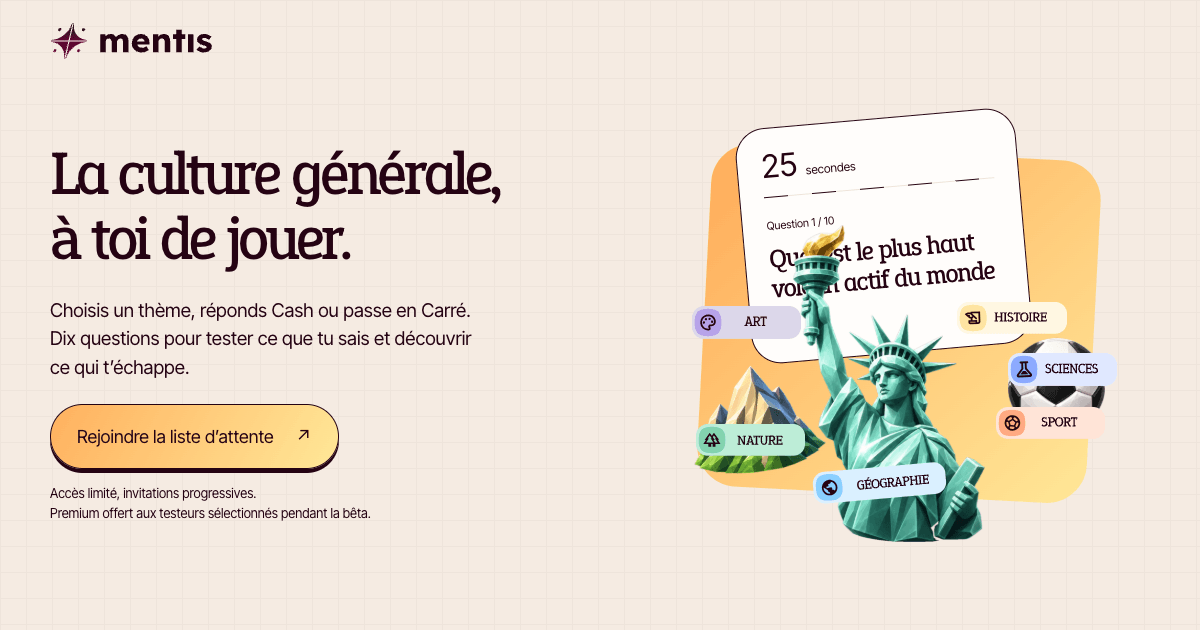
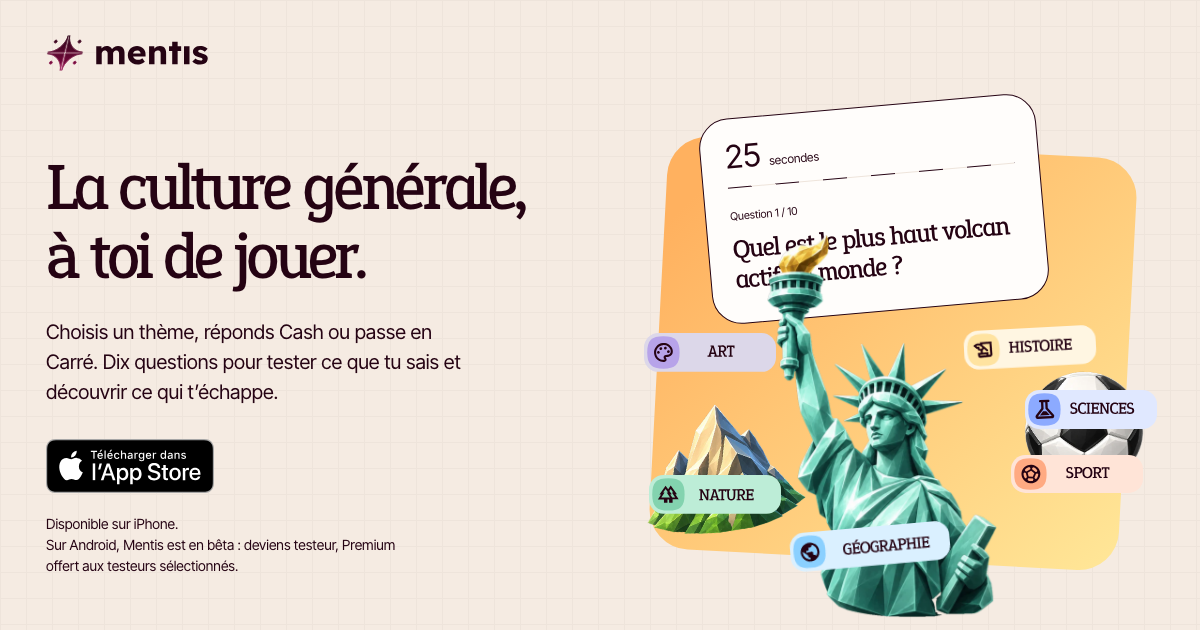
feat(web): the landing announces Mentis on the App Store, a QR code on desktop sends each device to its store through /mentis/app, and the waitlist becomes the Android beta

Changed region(s): [[0.5242, 0.1508, 0.9867, 0.9952], [0.0308, 0.2413, 0.4317, 0.9048], [0.0308, 0.0302, 0.185, 0.1206]]

diff --git a/apps/web/src/app/mentis/page.tsx b/apps/web/src/app/mentis/page.tsx
@@ -2,10 +2,12 @@ import type { Metadata } from "next";
 import localFont from "next/font/local";
 import Image from "next/image";
 
+import { AppStoreBadge } from "@/features/mentis/app-store-badge";
 import { LogoWordmark } from "@/features/mentis/logo-wordmark";
 import styles from "@/features/mentis/mentis.module.css";
 import { CompetitionArt, ProductArt } from "@/features/mentis/product-art";
 import { QuizDemo } from "@/features/mentis/quiz-demo";
+import { ANDROID_BETA_ANCHOR, APP_STORE_ID } from "@/features/mentis/store-links";
 import { WAITLIST_CTA } from "@/features/mentis/waitlist-config";
 import { WaitlistForm } from "@/features/mentis/waitlist-form";
 import { PUBLISHER } from "@/lib/publisher";
@@ -26,13 +28,14 @@ const inter = localFont({
 
 const TITLE = "Mentis — La culture générale, à toi de jouer";
 const DESCRIPTION =
-  "Des thèmes à explorer, 25 secondes pour répondre Cash ou Carré. Découvre Mentis et candidate à la bêta iOS et Android. Premium offert aux testeurs sélectionnés pendant la bêta.";
+  "Des thèmes à explorer, 25 secondes pour répondre Cash ou Carré. Mentis est disponible sur l’App Store. Sur Android, rejoins la bêta : Premium offert aux testeurs sélectionnés.";
 const URL = "https://frogster-studio.com/mentis";
 
 export const metadata: Metadata = {
   title: TITLE,
   description: DESCRIPTION,
   alternates: { canonical: URL },
+  itunes: { appId: APP_STORE_ID },
   icons: {
     icon: [
       { url: "/mentis/favicon.ico", sizes: "16x16 32x32 48x48", type: "image/x-icon" },
@@ -52,7 +55,7 @@ export const metadata: Metadata = {
         url: `${URL}/social-preview.png`,
         width: 1200,
         height: 630,
-        alt: "Mentis — La culture générale, à toi de jouer. Bêta iOS et Android.",
+        alt: "Mentis — La culture générale, à toi de jouer. Disponible sur l’App Store.",
       },
     ],
   },
@@ -87,8 +90,11 @@ export default function MentisPage() {
             <a href="#essayer" className={styles.navLink}>
               À toi de jouer
             </a>
-            <a href="#beta" className={styles.navCta}>
-              {WAITLIST_CTA}
+            <a href={`#${ANDROID_BETA_ANCHOR}`} className={styles.navLink}>
+              Bêta Android
+            </a>
+            <a href="#telecharger" className={styles.navCta}>
+              Télécharger l’app
             </a>
           </nav>
         </header>
@@ -103,13 +109,17 @@ export default function MentisPage() {
                 Choisis un thème, réponds Cash ou passe en Carré. Dix questions pour tester ce que
                 tu sais et découvrir ce qui t’échappe.
               </p>
-              <a href="#beta" className={`${styles.button} ${styles.primary}`}>
-                {WAITLIST_CTA}
-                <span aria-hidden="true">↗</span>
-              </a>
+              <div className={styles.download} id="telecharger">
+                <AppStoreBadge className={styles.storeBadge} />
+                <div className={styles.qrCode}>
+                  <Image src="/mentis/app-qr.svg" alt="" width={84} height={84} unoptimized />
+                  <p>Scanne ce code avec ton iPhone pour installer Mentis.</p>
+                </div>
+              </div>
               <p className={styles.heroDetails}>
-                <span>Accès limité, invitations progressives.</span>Premium offert aux testeurs
-                sélectionnés pendant la bêta.
+                <span>Disponible sur iPhone.</span>Sur Android, Mentis est en bêta :{" "}
+                <a href={`#${ANDROID_BETA_ANCHOR}`}>deviens testeur</a>, Premium offert aux testeurs
+                sélectionnés.
               </p>
             </div>
             <ProductArt />
@@ -220,17 +230,17 @@ export default function MentisPage() {
               </p>
             </div>
           </section>
-          <section className={styles.beta} id="beta" aria-labelledby="beta-title">
+          <section className={styles.beta} id={ANDROID_BETA_ANCHOR} aria-labelledby="beta-title">
             <div className={styles.betaIntro}>
-              <span className={styles.kicker}>04 / Fais partie des premiers</span>
+              <span className={styles.kicker}>04 / Bêta Android</span>
               <h2 id="beta-title">
-                La suite s’écrit
+                Sur Android,
                 <br />
-                avec toi.
+                on a besoin de toi.
               </h2>
               <p>
-                Mentis est encore en développement et n’est pas disponible au public. Nous ouvrons
-                progressivement la bêta à des testeurs sur iOS et Android.
+                Mentis est disponible sur l’App Store. Sur Android, l’app est encore en bêta : nous
+                cherchons des testeurs pour la peaufiner avant sa sortie sur Google Play.
               </p>
               <div className={styles.premiumNote}>
                 <Image src="/mentis/crown.webp" alt="" width={76} height={70} unoptimized />
@@ -244,10 +254,7 @@ export default function MentisPage() {
                 <p>
                   <strong>La bonne adresse e-mail, c’est important.</strong>
                 </p>
-                <p>
-                  Sur Android, indique l’adresse du compte Google que tu utilises sur le Google Play
-                  Store. Sur iOS, indique l’adresse de ton compte Apple.
-                </p>
+                <p>Indique l’adresse du compte Google que tu utilises sur le Google Play Store.</p>
                 <p>
                   Une adresse différente peut empêcher l’accès à la bêta. Ne communique jamais ton
                   mot de passe.
@@ -284,10 +291,13 @@ export default function MentisPage() {
           </section>
           <div className={styles.finalLine}>
             <p>La curiosité n’attend que toi.</p>
-            <a className={`${styles.button} ${styles.primary}`} href="#beta">
-              {WAITLIST_CTA}
-              <span aria-hidden="true">↗</span>
-            </a>
+            <div className={styles.finalActions}>
+              <AppStoreBadge className={styles.storeBadge} />
+              <a className={`${styles.button} ${styles.primary}`} href={`#${ANDROID_BETA_ANCHOR}`}>
+                {WAITLIST_CTA}
+                <span aria-hidden="true">↗</span>
+              </a>
+            </div>
           </div>
         </main>
         <div className={styles.footerBrand}>

diff --git a/apps/web/src/features/mentis/store-links.test.ts b/apps/web/src/features/mentis/store-links.test.ts
@@ -1,0 +1,34 @@
+import { describe, expect, it } from "vitest";
+
+import { ANDROID_BETA_URL, APP_STORE_URL, storeDestination } from "./store-links";
+
+const IPHONE =
+  "Mozilla/5.0 (iPhone; CPU iPhone OS 18_0 like Mac OS X) AppleWebKit/605.1.15 (KHTML, like Gecko) Version/18.0 Mobile/15E148 Safari/604.1";
+const IPAD_LEGACY =
+  "Mozilla/5.0 (iPad; CPU OS 12_4 like Mac OS X) AppleWebKit/605.1.15 (KHTML, like Gecko) Version/12.1.2 Mobile/15E148 Safari/604.1";
+const MAC =
+  "Mozilla/5.0 (Macintosh; Intel Mac OS X 10_15_7) AppleWebKit/605.1.15 (KHTML, like Gecko) Version/18.0 Safari/605.1.15";
+const ANDROID =
+  "Mozilla/5.0 (Linux; Android 14; Pixel 8) AppleWebKit/537.36 (KHTML, like Gecko) Chrome/129.0 Mobile Safari/537.36";
+const WINDOWS =
+  "Mozilla/5.0 (Windows NT 10.0; Win64; x64) AppleWebKit/537.36 (KHTML, like Gecko) Chrome/129.0 Safari/537.36";
+
+describe("storeDestination", () => {
+  it("sends an iPhone to the App Store", () => {
+    expect(storeDestination(IPHONE, 5)).toBe(APP_STORE_URL);
+  });
+
+  it("sends an iPad to the App Store, even behind its Mac user agent", () => {
+    expect(storeDestination(IPAD_LEGACY, 5)).toBe(APP_STORE_URL);
+    expect(storeDestination(MAC, 5)).toBe(APP_STORE_URL);
+  });
+
+  it("sends an Android phone to the Android beta section", () => {
+    expect(storeDestination(ANDROID, 5)).toBe(ANDROID_BETA_URL);
+  });
+
+  it("sends a desktop to the landing page", () => {
+    expect(storeDestination(MAC, 0)).toBe("/mentis");
+    expect(storeDestination(WINDOWS, 0)).toBe("/mentis");
+  });
+});

diff --git a/apps/web/src/features/mentis/mentis.module.css b/apps/web/src/features/mentis/mentis.module.css
@@ -153,6 +153,48 @@
 .heroDetails span {
   display: block;
 }
+.heroDetails a {
+  text-decoration: underline;
+  text-underline-offset: 3px;
+}
+.download {
+  display: flex;
+  align-items: center;
+  gap: 28px;
+  scroll-margin-top: 30px;
+}
+.storeBadge {
+  display: inline-block;
+  transition: transform 150ms ease;
+}
+.storeBadge:hover {
+  transform: translateY(2px);
+}
+.storeBadge img {
+  display: block;
+  width: 168px;
+  height: auto;
+}
+.qrCode {
+  display: none;
+  align-items: center;
+  gap: 14px;
+  max-width: 230px;
+  font-size: 14px;
+  line-height: 1.35;
+}
+.qrCode img {
+  flex-shrink: 0;
+  padding: 6px;
+  background: white;
+  border: 1px solid var(--ink);
+  border-radius: 14px;
+}
+@media (hover: hover) and (pointer: fine) {
+  .qrCode {
+    display: flex;
+  }
+}
 .productArt {
   position: relative;
   width: 100%;
@@ -615,6 +657,13 @@
 .finalLine {
   text-align: center;
   padding-bottom: 72px;
+}
+.finalActions {
+  display: flex;
+  flex-wrap: wrap;
+  justify-content: center;
+  align-items: center;
+  gap: 20px;
 }
 .finalLine p {
   font-family: var(--font-mentis-heading), serif;

diff --git a/apps/web/src/app/mentis/app/page.tsx b/apps/web/src/app/mentis/app/page.tsx
@@ -1,0 +1,33 @@
+import type { Metadata } from "next";
+
+import { AppStoreBadge } from "@/features/mentis/app-store-badge";
+import { ANDROID_BETA_URL } from "@/features/mentis/store-links";
+import { StoreRedirect } from "@/features/mentis/store-redirect";
+import { ROUTES } from "@/lib/routes";
+
+export const metadata: Metadata = {
+  title: "Télécharger Mentis",
+  robots: { index: false },
+};
+
+export default function AppPage() {
+  return (
+    <main className="mx-auto flex max-w-3xl flex-col gap-6 px-6 py-24">
+      <StoreRedirect />
+      <h1 className="text-4xl">Télécharger Mentis</h1>
+      <p className="text-lg text-zinc-600">Redirection vers la bonne boutique…</p>
+      <AppStoreBadge className="self-start" />
+      <p className="text-sm text-zinc-600">
+        Sur Android ?{" "}
+        <a href={ANDROID_BETA_URL} className="text-sky-600 hover:underline">
+          Rejoins la bêta
+        </a>
+        . Sinon,{" "}
+        <a href={ROUTES.mentis} className="text-sky-600 hover:underline">
+          découvre Mentis
+        </a>
+        .
+      </p>
+    </main>
+  );
+}

diff --git a/apps/web/src/features/mentis/store-links.ts b/apps/web/src/features/mentis/store-links.ts
@@ -1,0 +1,14 @@
+import { ROUTES } from "@/lib/routes";
+
+export const APP_STORE_ID = "6804975526";
+export const APP_STORE_URL = `https://apps.apple.com/app/id${APP_STORE_ID}`;
+export const ANDROID_BETA_ANCHOR = "android";
+export const ANDROID_BETA_URL = `${ROUTES.mentis}#${ANDROID_BETA_ANCHOR}`;
+
+// iPadOS Safari reports a Mac user agent, so only its touch points give it away.
+export function storeDestination(userAgent: string, maxTouchPoints: number): string {
+  const isIPad = /iPad/.test(userAgent) || (/Macintosh/.test(userAgent) && maxTouchPoints > 1);
+  if (/iPhone|iPod/.test(userAgent) || isIPad) return APP_STORE_URL;
+  if (/Android/.test(userAgent)) return ANDROID_BETA_URL;
+  return ROUTES.mentis;
+}

diff --git a/apps/web/src/lib/routes.test.ts b/apps/web/src/lib/routes.test.ts
@@ -7,6 +7,7 @@ describe("routes", () => {
     expect(PAGE_PATHS).toEqual([
       "/",
       "/mentis",
+      "/mentis/app",
       "/legal",
       "/mentis/privacy",
       "/mentis/terms",
@@ -16,6 +17,7 @@ describe("routes", () => {
   });
 
   it("keeps the Mentis pages under /mentis", () => {
+    expect(ROUTES.app.startsWith("/mentis/")).toBe(true);
     expect(ROUTES.privacy.startsWith("/mentis/")).toBe(true);
     expect(ROUTES.terms.startsWith("/mentis/")).toBe(true);
     expect(ROUTES.support.startsWith("/mentis/")).toBe(true);

diff --git a/apps/web/src/features/mentis/app-store-badge.tsx b/apps/web/src/features/mentis/app-store-badge.tsx
@@ -1,0 +1,17 @@
+import Image from "next/image";
+
+import { APP_STORE_URL } from "./store-links";
+
+export function AppStoreBadge({ className }: { className?: string }) {
+  return (
+    <a href={APP_STORE_URL} className={className}>
+      <Image
+        src="/mentis/app-store-badge.svg"
+        alt="Télécharger dans l’App Store"
+        width={152}
+        height={48}
+        unoptimized
+      />
+    </a>
+  );
+}

diff --git a/apps/web/src/features/mentis/waitlist-form.tsx b/apps/web/src/features/mentis/waitlist-form.tsx
@@ -94,7 +94,7 @@ export function WaitlistForm() {
                 ref={iframe}
                 className={styles.formFrame}
                 src={frameUrl}
-                title="Candidature à la bêta Mentis"
+                title="Candidature à la bêta Android de Mentis"
                 referrerPolicy="no-referrer"
                 onError={() => setFailed(true)}
               />

diff --git a/apps/web/src/features/mentis/store-redirect.tsx b/apps/web/src/features/mentis/store-redirect.tsx
@@ -1,0 +1,12 @@
+"use client";
+
+import { useEffect } from "react";
+
+import { storeDestination } from "./store-links";
+
+export function StoreRedirect() {
+  useEffect(() => {
+    window.location.replace(storeDestination(navigator.userAgent, navigator.maxTouchPoints));
+  }, []);
+  return null;
+}

diff --git a/apps/web/src/features/mentis/waitlist-config.ts b/apps/web/src/features/mentis/waitlist-config.ts
@@ -1,2 +1,2 @@
 export const TALLY_FORM_ID = "xXGJZy";
-export const WAITLIST_CTA = "Rejoindre la liste d’attente";
+export const WAITLIST_CTA = "Rejoindre la bêta Android";

diff --git a/apps/web/src/lib/routes.ts b/apps/web/src/lib/routes.ts
@@ -1,6 +1,7 @@
 export const ROUTES = {
   home: "/",
   mentis: "/mentis",
+  app: "/mentis/app",
   legal: "/legal",
   privacy: "/mentis/privacy",
   terms: "/mentis/terms",

diff --git a/apps/web/README.md b/apps/web/README.md
@@ -8,13 +8,25 @@ bun run --filter @mentis/web build
 bun run check
 ```
 
-## Liste d’attente
+## Téléchargement
+
+L’app iOS est sur l’[App Store](https://apps.apple.com/app/id6804975526). Le QR code `public/mentis/app-qr.svg` pointe vers `/mentis/app`, qui redirige l’iPhone et l’iPad vers l’App Store, Android vers la bêta et le reste vers la landing. Ne le regénérer que si cette URL change :
+
+```sh
+bunx qrcode@1.5.4 -t svg -e M -d "#250313" -l "#0000" -o public/mentis/app-qr.svg "https://frogster-studio.com/mentis/app"
+```
+
+Retirer ensuite l’en-tête `<?xml …?><!DOCTYPE …>` et ajouter un `<title>` : Biome l’exige.
+
+Le badge `public/mentis/app-store-badge.svg` est le badge officiel d’Apple (noir, fr-fr), tiré de [l’outil marketing d’Apple](https://toolbox.marketingtools.apple.com/).
+
+## Liste d’attente Android
 
 La page `/mentis` intègre le formulaire public [Tally xXGJZy](https://tally.so/r/xXGJZy). Son identifiant est dans `src/features/mentis/waitlist-config.ts`. Aucune clé API, base de données ou route serveur n’est nécessaire.
 
 Le formulaire est chargé à l’approche de la section bêta. Tally gère les champs obligatoires, la validation de l’e-mail, le consentement, le CAPTCHA et l’enregistrement. Le script officiel adapte la hauteur de l’iframe. Le composant ne confirme la candidature qu’après un événement `Tally.FormSubmitted` provenant de l’iframe attendue, de `https://tally.so`, et du bon formulaire. Une panne de chargement affiche un bouton de reprise et un lien direct. Les réponses ne sont jamais copiées dans le site ni ses journaux.
 
-Hugo administre Tally lui-même. Conserver les champs prénom, nom, système iOS/Android, adresse du compte du store et consentement obligatoire. Garder les instructions concernant le compte Google/Apple et l’absence de mot de passe demandé. Une modification du formulaire dans Tally est publiée indépendamment de Git : vérifier ensuite son rendu et ses validations dans la landing.
+Hugo administre Tally lui-même. Conserver les champs prénom, nom, adresse du compte Google Play et consentement obligatoire. Garder les instructions concernant le compte Google et l’absence de mot de passe demandé. Une modification du formulaire dans Tally est publiée indépendamment de Git : vérifier ensuite son rendu et ses validations dans la landing.
 
 Les données servent uniquement à gérer les candidatures et les invitations. La notice près du formulaire précise leur conservation jusqu’à la fin de la bêta. À cette échéance, supprimer les réponses dans Tally et les éventuels exports conservés. Ce nettoyage est manuel, sans échéance automatisée. Les demandes de retrait et de suppression arrivent à l’adresse de l’éditeur indiquée dans la notice.
 
